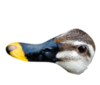
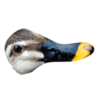
Feat: Basic duck functionality added

diff --git a/js/app.js b/js/app.js
@@ -81,7 +81,11 @@ var Map = function() {
         'images/enemy-bug-up.png',
         'images/enemy-bug-down.png',
         'images/enemy-bug-burrow-1.png',
-        'images/enemy-bug-burrow-2.png'
+        'images/enemy-bug-burrow-2.png',
+        'images/DuckRight.png',
+        'images/DuckRightEat.png',
+        'images/DuckLeft.png',
+        'images/DuckLeftEat.png'
     ];
     this.playerChars = [
         'images/char-boy.png',
@@ -159,7 +163,9 @@ var Map = function() {
         gong: new Audio('audio/gong.mp3'),
         key: new Audio('audio/key.mp3'),
         music: new Audio('audio/music.mp3'),
+        nom: new Audio('audio/nom.mp3'),
         powerdown: new Audio('audio/powerdown.mp3'),
+        quack: new Audio('audio/quack.mp3'),
         run: new Audio('audio/run.mp3'),
         shield: new Audio('audio/shield.mp3'),
         splash: new Audio('audio/splash.mp3'),
@@ -884,24 +890,110 @@ Burrower.prototype.resetBurrow = function() {
     }
 };
 
-var Eater = function() {
-    this.sprite = map.enemySprites[4];
-    // Burrowers start off screen until the unburrow:
-    this.x = -100;
-    this.y = -100;
-    // Determines behavior of the Burrower:
-    this.type = type;
-    // Used to keep track of movements of unburrow by determining which hole the
-    // burrower unburrowed from last:
-    this.lastBurrow = 5;
-    this.burrowWait = 5;
-    this.unburrowed = 0;
-    // When the game is paused and this.moving is set to 0, the burrowWait timer 
-    // will stop counting down:
+var Duck = function() {
+    this.sprite = map.enemySprites[6];
+    // Ducks start way offscreen:
+    this.x = -300;
+    this.y = -300;
+
+    // Where the quack warning will appear:
+    this.quackX = -100;
+    this.quackY = -100;
+
+    // Timer determining whether quacks should appear to warn player:
+    this.quackWarning = 0;
+
+    // Determines if the warning quacks had already been given or not:
+    this.quacked1 = true;
+    this.quacked2 = true;
+
+    // How long the duck will wait until its next strike. Initial is 5, then it 
+    // it randomized:
+    this.duckWait = 5;
+    // Pause control:
     this.moving = 1;
+    this.frozen = 1;
 };
 
-inherit(Eater, Entity);
+inherit(Duck, Entity);
+
+Duck.prototype.update = function(dt) {
+    if (this.duckWait <= 0) {
+        this.strike();
+    }
+
+    if (this.duckWait > 0 && player.charSelected) {
+        this.duckWait -= dt * this.moving * this.frozen;
+    }
+
+    if (this.quackWarning > 0) {
+        this.quackWarning -= dt * this.moving * this.frozen;
+    }
+
+    if (this.quackX < map.totalWidth / 2) {
+        this.x += 350 * dt * this.moving * this.frozen;
+    } else {
+        this.x -= 350 * dt * this.moving * this.frozen;
+    }
+
+    if (this.quackWarning < 3.9 && !this.quacked1) {
+        this.quacked1 = true;
+        map.playSFX('quack');
+    }
+    if (this.quackWarning < 2.5 && !this.quacked2) {
+        this.quacked2 = true;
+        map.playSFX('quack');
+    }
+};
+
+Duck.prototype.render = function() {
+    if (player.charSelected === true) {
+        ctx.drawImage(Resources.get(this.sprite), this.x, this.y);
+    }
+
+    if (this.quackWarning > 0) {
+        console.log('should be rendering some stuff');
+        if (this.quackX < map.totalWidth / 2) {
+            ctx.textAlign = 'left';
+        } else {
+            ctx.textAlign = 'right';
+        }
+        ctx.font = '20px Impact';
+        ctx.fillStyle = 'yellow';
+        ctx.strokeStyle = 'black';
+        if (this.quackWarning <= 3.9 && this.quackWarning >= 3) {
+            ctx.fillText('Quack!', this.quackX, this.quackY);
+            ctx.strokeText('Quack!', this.quackX, this.quackY);
+        } else if (this.quackWarning <= 2.5 && this.quackWarning >= 1) {
+            ctx.fillText('Quack!', this.quackX, this.quackY);
+            ctx.strokeText('Quack!', this.quackX, this.quackY);
+        }
+    }
+};
+
+Duck.prototype.strike = function() {
+    this.quacked1 = false;
+    this.quacked2 = false;
+    this.quackWarning = 4;
+    var xOptions = ['left', 'right'],
+        yOptions = [2, 3, 4];
+    this.duckWait = 5 + 5 * Math.random();
+
+    var xChoice = xOptions[Math.floor(Math.random() * 2)],
+        yChoice = yOptions[Math.floor(Math.random() * 3)];
+
+    if (xChoice === 'left') {
+        this.sprite = map.enemySprites[6];
+        this.x = -1300;
+        this.quackX = 10;
+    } else if (xChoice === 'right') {
+        this.sprite = map.enemySprites[8];
+        this.x = map.totalWidth + 1300;
+        this.quackX = map.totalWidth - 10;
+    }
+    this.y = map.yValues[yChoice];
+    this.quackY = this.y + 65;
+};
 
 var Player = function() {
     // this.sprite, this.x, this.y, this.xCoord and this.yCoord are all 
@@ -2170,6 +2262,8 @@ var allCorn = [];
 var allKeys = [];
 var allPowerUps = [];
 var allClouds = [];
+
+allEnemies.push(new Duck());
 
 // Shorthand for Class inheritance:
 function inherit(subClass, superClass) {

diff --git a/js/engine.js b/js/engine.js
@@ -169,13 +169,13 @@ var Engine = (function(global) {
         /* Loop through all of the objects within the allEnemies array and call
          * the render function you have defined.
          */
+        allCorn.forEach(function(corn) {
+            corn.render();
+        });
         allEnemies.forEach(function(enemy) {
             enemy.render();
         });
 
-        allCorn.forEach(function(corn) {
-            corn.render();
-        });
         allKeys.forEach(function(key) {
             key.render();
         });
@@ -265,7 +265,12 @@ var Engine = (function(global) {
         'images/cloud6.png',
         'images/cloud7.png',
         'images/Arrows.png',
-        'images/Mute.png'
+        'images/Mute.png',
+        'images/DuckRight.png',
+        'images/DuckRightEat.png',
+        'images/DuckLeft.png',
+        'images/DuckLeftEat.png'
+
     ];
 
     Resources.load(loadMe);
